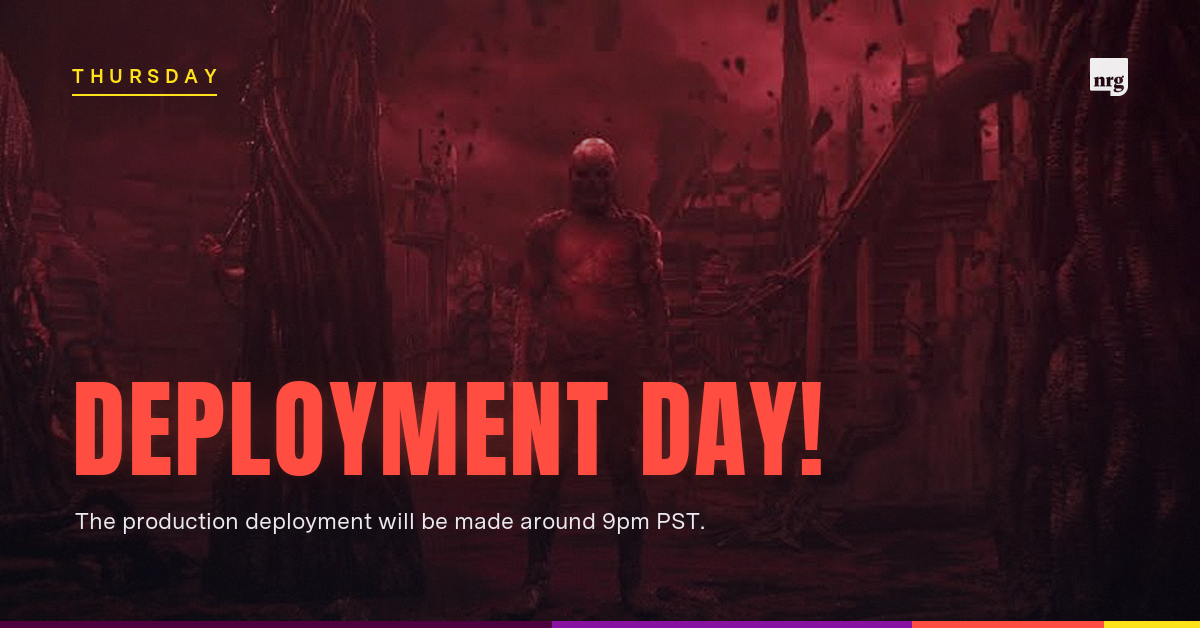
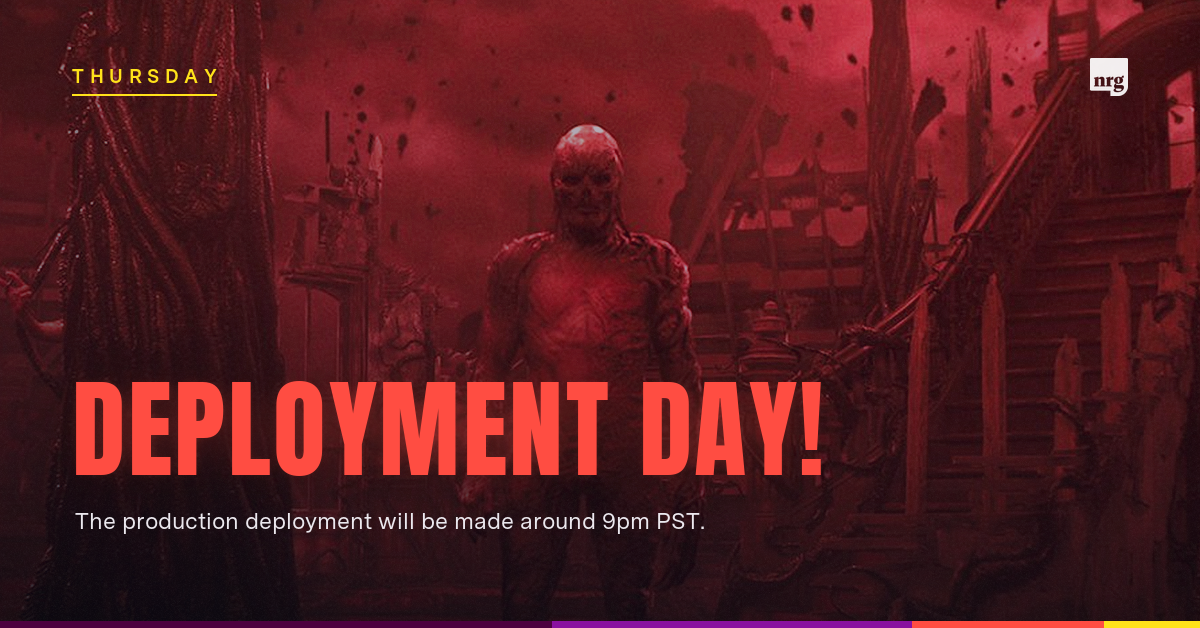
feat: give Thursday a stronger frame with per-day crop controls
The Vecna still was the weakest of the four: 786x390, the only source being
upscaled, and a wide shot in which the figure read as scenery rather than a
subject. Both problems are now addressed.

- Source replaced with a 1400x700 frame of the same scene, so nothing is
  upscaled any more.
- cover_crop gains optional zoom and focus, and build gains an optional punch,
  all driven from announcements.json. Defaults preserve the existing behaviour
  for the other three days.
- Thursday is set to zoom 1.5 at focus [0.5, 0.42] with punch 0.14, which pushes
  in on Vecna and lifts him off the background.

diff --git a/scripts/make_art.py b/scripts/make_art.py
@@ -49,14 +49,24 @@ def font(spec, size):
     return ImageFont.truetype(path, size, index=idx) if idx is not None else ImageFont.truetype(path, size)
 
 
-def cover_crop(im, w, h):
-    """Scale to fill w x h, centre-cropped, preserving aspect."""
+def cover_crop(im, w, h, zoom=1.0, focus=(0.5, 0.5)):
+    """Scale to fill w x h, preserving aspect.
+
+    zoom > 1 pushes in on the subject; focus is the normalised point of the
+    scaled image to keep centred, clamped so the crop stays in bounds.
+    """
     im = im.convert("RGB")
     sw, sh = im.size
-    scale = max(w / sw, h / sh)
+    scale = max(w / sw, h / sh) * zoom
     nw, nh = round(sw * scale), round(sh * scale)
     im = im.resize((nw, nh), Image.LANCZOS)
-    return im.crop(((nw - w) // 2, (nh - h) // 2, (nw - w) // 2 + w, (nh - h) // 2 + h))
+
+    fx, fy = focus
+    left = round(nw * fx - w / 2)
+    top = round(nh * fy - h / 2)
+    left = max(0, min(left, nw - w))
+    top = max(0, min(top, nh - h))
+    return im.crop((left, top, left + w, top + h))
 
 
 def linear_gradient(size, stops, horizontal=False):
@@ -195,13 +205,16 @@ def glow_text(base, lines, fnt, x, y, line_h, colour, tracking=0,
     base.alpha_composite(render(colour + (255,)))
 
 
-def build(day, src, title, desc, out):
-    photo = cover_crop(Image.open(src), W, H)
+def build(day, src, title, desc, out, zoom=1.0, focus=(0.5, 0.5), punch=0.0):
+    photo = cover_crop(Image.open(src), W, H, zoom=zoom, focus=focus)
 
     # Cool, desaturated, moody grade
     photo = ImageEnhance.Color(photo).enhance(0.72)
     photo = ImageEnhance.Contrast(photo).enhance(1.10)
     photo = ImageEnhance.Brightness(photo).enhance(1.18)
+    if punch:
+        photo = ImageEnhance.Contrast(photo).enhance(1 + punch)
+        photo = ImageEnhance.Color(photo).enhance(1 + punch * 0.6)
 
     canvas = photo.convert("RGBA")
 
@@ -344,4 +357,7 @@ if __name__ == "__main__":
             if probe.size[0] < W or probe.size[1] < H:
                 print(f"  note: {day} source is {probe.size[0]}x{probe.size[1]}, "
                       f"below {W}x{H}; the grade will mask the upscale.")
-        build(day, src_path, cfg["title"], cfg["description"], out_dir / cfg["asset"])
+        build(day, src_path, cfg["title"], cfg["description"], out_dir / cfg["asset"],
+              zoom=cfg.get("zoom", 1.0),
+              focus=tuple(cfg.get("focus", (0.5, 0.5))),
+              punch=cfg.get("punch", 0.0))

diff --git a/README.md b/README.md
@@ -96,6 +96,20 @@ python3 scripts/make_art.py
 git add assets && git commit -m "chore: regenerate announcement banners"
 ```
 
+## Per-day framing
+
+Each entry in `announcements.json` accepts three optional keys for shots that need
+different handling:
+
+| Key | Default | Effect |
+|---|---|---|
+| `zoom` | `1.0` | Push in on the subject. `1.5` crops to two-thirds of the frame. |
+| `focus` | `[0.5, 0.5]` | Normalised point to keep centred. Clamped so the crop stays in bounds. |
+| `punch` | `0.0` | Extra contrast and saturation for flat frames. |
+
+Thursday uses all three, because the Vecna still is a wide shot in which the figure
+would otherwise read as scenery rather than a subject.
+
 ## Image credits
 
 Banner backgrounds are promotional stills from *Stranger Things* (Netflix), used for
